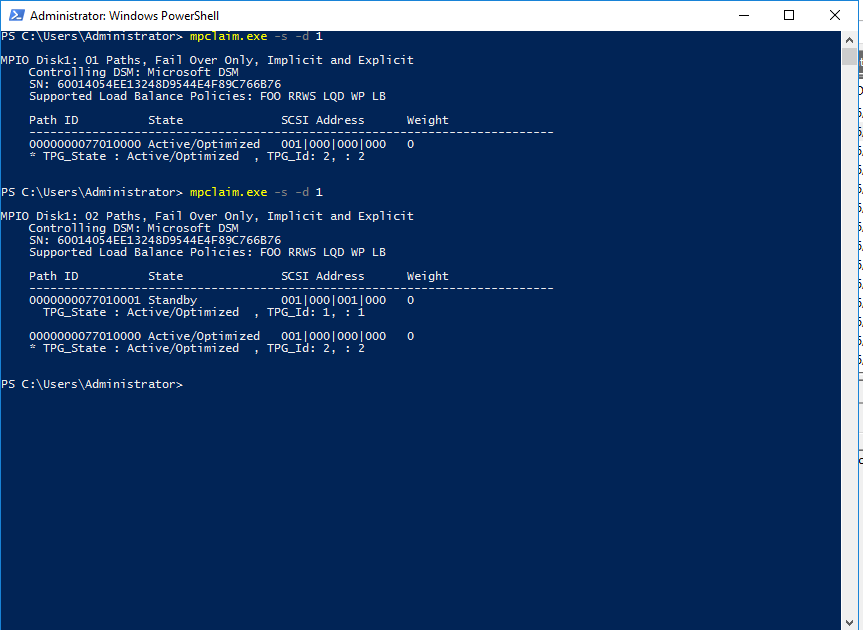
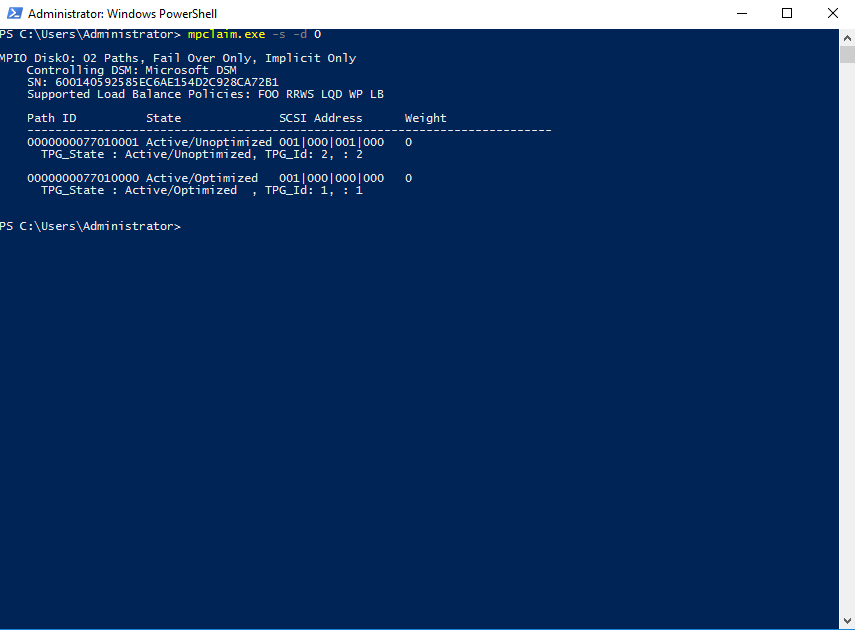
doc: tweaks for the RBD iSCSI configuration documentation

Changed region(s): [[0.0, 0.0, 1.0, 1.0], [0.0, 0.6032, 0.2129, 0.6333], [0.6082, 0.181, 0.6386, 0.2111]]

diff --git a/doc/rbd/iscsi-target-ansible.rst b/doc/rbd/iscsi-target-ansible.rst
@@ -11,23 +11,20 @@ install, and configure the Ceph iSCSI gateway for basic operation.
 
 -  A running Ceph Luminous (12.2.x) cluster or newer
 
--  The ``ceph-iscsi-config`` package installed on all the iSCSI gateway nodes
+-  RHEL/CentOS 7.4; or Linux kernel v4.14 or newer
 
-.. NOTE::
-  The ``device-mapper-multipath-0.4.9-99`` or newer package is only required for
-  older kernel RBD based implementations. This package is not required for newer
-  ``librbd`` based implementations.
+-  The ``ceph-iscsi-config`` package installed on all the iSCSI gateway nodes
 
 **Installing:**
 
 #. On the Ansible installer node, which could be either the administration node
    or a dedicated deployment node, perform the following steps:
 
-   #. As ``root``, install the ``ceph-iscsi-ansible`` package:
+   #. As ``root``, install the ``ceph-ansible`` package:
 
       ::
 
-          # yum install ceph-iscsi-ansible
+          # yum install ceph-ansible
 
    #. Add an entry in ``/etc/ansible/hosts`` file for the gateway group:
 
@@ -37,13 +34,13 @@ install, and configure the Ceph iSCSI gateway for basic operation.
           ceph-igw-1
           ceph-igw-2
 
-.. NOTE::
+.. note::
   If co-locating the iSCSI gateway with an OSD node, then add the OSD node to the
   ``[ceph-iscsi-gw]`` section.
 
 **Configuring:**
 
-The ``ceph-iscsi-ansible`` package places a file in the ``/usr/share/ceph-ansible/group_vars/``
+The ``ceph-ansible`` package places a file in the ``/usr/share/ceph-ansible/group_vars/``
 directory called ``ceph-iscsi-gw.sample``. Create a copy of this sample file named
 ``ceph-iscsi-gw.yml``. Review the following Ansible variables and descriptions,
 and update accordingly.
@@ -134,7 +131,7 @@ and update accordingly.
 |                                      | across client connections.           |
 +--------------------------------------+--------------------------------------+
 
-.. NOTE::
+.. note::
   When using the ``gateway_iqn`` variable, and for Red Hat Enterprise Linux
   clients, installing the ``iscsi-initiator-utils`` package is required for
   retrieving the gateway’s IQN name. The iSCSI initiator name is located in the
@@ -151,7 +148,7 @@ On the Ansible installer node, perform the following steps.
        # cd /usr/share/ceph-ansible
        # ansible-playbook ceph-iscsi-gw.yml
 
-   .. NOTE::
+   .. note::
     The Ansible playbook will handle RPM dependencies, RBD creation
     and Linux IO configuration.
 
@@ -161,12 +158,12 @@ On the Ansible installer node, perform the following steps.
 
        # gwcli ls
 
-   .. NOTE::
+   .. note::
     For more information on using the ``gwcli`` command to install and configure
     a Ceph iSCSI gateaway, see the `Configuring the iSCSI Target using the Command Line Interface`_
     section.
 
-   .. IMPORTANT::
+   .. important::
     Attempting to use the ``targetcli`` tool to change the configuration will
     result in the following issues, such as ALUA misconfiguration and path failover
     problems. There is the potential to corrupt data, to have mismatched
@@ -207,7 +204,7 @@ Within the ``/usr/share/ceph-ansible/group_vars/ceph-iscsi-gw`` file
 there are a number of operational workflows that the Ansible playbook
 supports.
 
-.. WARNING::
+.. warning::
   Before removing RBD images from the iSCSI gateway configuration,
   follow the standard procedures for removing a storage device from
   the operating system.
@@ -271,7 +268,7 @@ change across the iSCSI gateway nodes.
 
 **Removing the Configuration:**
 
-The ``ceph-iscsi-ansible`` package provides an Ansible playbook to
+The ``ceph-ansible`` package provides an Ansible playbook to
 remove the iSCSI gateway configuration and related RBD images. The
 Ansible playbook is ``/usr/share/ceph-ansible/purge_gateways.yml``. When
 this Ansible playbook is ran a prompted for the type of purge to
@@ -290,11 +287,11 @@ When ``all`` is chosen, the LIO configuration is removed together with
 environment, other unrelated RBD images will not be removed. Ensure the
 correct mode is chosen, this operation will delete data.
 
-.. WARNING::
+.. warning::
   A purge operation is destructive action against your iSCSI gateway
   environment.
 
-.. WARNING::
+.. warning::
   A purge operation will fail, if RBD images have snapshots or clones
   and are exported through the Ceph iSCSI gateway.
 

diff --git a/doc/rbd/iscsi-requirements.rst b/doc/rbd/iscsi-requirements.rst
@@ -9,15 +9,20 @@ solution.
 For hardware recommendations, see the `Hardware Recommendation page <http://docs.ceph.com/docs/master/start/hardware-recommendations/>`_
 for more details.
 
-.. WARNING::
+.. note::
     On the iSCSI gateway nodes, the memory footprint of the RBD images
     can grow to a large size. Plan memory requirements accordingly based
-    off the number RBD images mapped. Each RBD image roughly uses 90 MB
-    of RAM.
+    off the number RBD images mapped.
 
 There are no specific iSCSI gateway options for the Ceph Monitors or
-OSDs, but changing the ``osd_client_watch_timeout`` value to ``15`` is
-required for each OSD node in the storage cluster.
+OSDs, but it is important to lower the default timers for detecting
+down OSDs to reduce the possibility of initiator timeouts. The following
+configuration options are suggested for each OSD node in the storage
+cluster::
+
+        [osd]
+        osd heartbeat grace = 20
+        osd heartbeat interval = 5
 
 -  Online Updating Using the Ceph Monitor
 
@@ -27,7 +32,8 @@ required for each OSD node in the storage cluster.
 
    ::
 
-       # ceph tell osd.0 injectargs '--osd_client_watch_timeout 15'
+       ceph tell osd.0 injectargs '--osd_heartbeat_grace 20'
+       ceph tell osd.0 injectargs '--osd_heartbeat_interval 5'
 
 -  Online Updating on the OSD Node
 
@@ -37,17 +43,7 @@ required for each OSD node in the storage cluster.
 
    ::
 
-       # ceph daemon osd.0 config set osd_client_watch_timeout 15
-
-   .. NOTE::
-    Update the Ceph configuration file and copy it to all nodes in the
-    Ceph storage cluster. For example, the default configuration file is
-    ``/etc/ceph/ceph.conf``. Add the following lines to the Ceph
-    configuration file:
-
-   ::
-
-        [osd]
-        osd_client_watch_timeout = 15
+       ceph daemon osd.0 config set osd_heartbeat_grace 20
+       ceph daemon osd.0 config set osd_heartbeat_interval 5
 
 For more details on setting Ceph's configuration options, see the `Configuration page <http://docs.ceph.com/docs/master/rados/configuration/>`_.

diff --git a/doc/rbd/iscsi-initiator-win.rst b/doc/rbd/iscsi-initiator-win.rst
@@ -34,7 +34,7 @@ Configuring the MPIO load balancing policy, setting the timeout and
 retry options are using PowerShell with the ``mpclaim`` command. The
 reset is done in the MPIO tool.
 
-.. NOTE::
+.. note::
   It is recommended to increase the ``PDORemovePeriod`` option to 120
   seconds from PowerShell. This value might need to be adjusted based
   on the application. When all paths are down, and 120 seconds
@@ -54,13 +54,13 @@ reset is done in the MPIO tool.
     MSDSM-wide Load Balance Policy: Fail Over Only
 
 #. Using the MPIO tool, from the “Targets” tab, click on the
-   “Devices…” button:
+   “Devices...” button.
 
 #. From the Devices window, select a disk and click the
-   “MPIO…” button:
+   “MPIO...” button.
 
 #. On the "Device Details" window the paths to each target portal is
-   displayed. If using the ``ceph-iscsi-ansible`` setup method, the
+   displayed. If using the ``ceph-ansible`` setup method, the
    iSCSI gateway will use ALUA to tell the iSCSI initiator which path
    and iSCSI gateway should be used as the primary path. The Load
    Balancing Policy “Fail Over Only” must be selected
@@ -69,8 +69,8 @@ reset is done in the MPIO tool.
 
     mpclaim -s -d $MPIO_DISK_ID
 
-.. NOTE::
-  For the ``ceph-iscsi-ansible`` setup method, there will be one
+.. note::
+  For the ``ceph-ansible`` setup method, there will be one
   Active/Optimized path which is the path to the iSCSI gateway node
   that owns the LUN, and there will be an Active/Unoptimized path for
   each other iSCSI gateway node.
@@ -87,7 +87,7 @@ Consider using the following registry settings:
 
    ::
 
-       DiskTimeout = 25
+       TimeOutValue = 65
 
 -  Microsoft iSCSI Initiator Driver
 
@@ -96,5 +96,5 @@ Consider using the following registry settings:
        HKEY_LOCAL_MACHINE\\SYSTEM\CurrentControlSet\Control\Class\{4D36E97B-E325-11CE-BFC1-08002BE10318}\<Instance_Number>\Parameters
 
    ::
-
-       SRBTimeoutDelta = 5
+       LinkDownTime = 25
+       SRBTimeoutDelta = 15

diff --git a/doc/rbd/iscsi-target-cli.rst b/doc/rbd/iscsi-target-cli.rst
@@ -11,7 +11,7 @@ install, and configure the Ceph iSCSI gateway for basic operation.
 
 -  A running Ceph Luminous or later storage cluster
 
--  CentOS 7.4, Linux kernel v4.12 or newer
+-  RHEL/CentOS 7.4; or Linux kernel v4.14 or newer
 
 -  The following packages must be installed from your Linux distribution's software repository:
 
@@ -19,9 +19,13 @@ install, and configure the Ceph iSCSI gateway for basic operation.
 
    -  ``python-rtslib-2.1.fb64`` or newer package
 
-   -  ``tcmu-runner-1.2.1`` or newer package
+   -  ``tcmu-runner-1.3.0`` or newer package
 
-     .. IMPORTANT::
+   -  ``ceph-iscsi-config-2.3`` or newer package
+
+   -  ``ceph-iscsi-cli-2.5`` or newer package
+
+     .. important::
         If previous versions of these packages exist, then they must
         be removed first before installing the newer versions.
 
@@ -69,13 +73,6 @@ to the *Installing* section:
       ::
 
           [config]
-          cluster_name = <ceph_cluster_name>
-          gateway_keyring = <ceph_client_keyring>
-          api_secure = false
-
-      ::
-
-          [config]
           # Name of the Ceph storage cluster. A suitable Ceph configuration file allowing
           # access to the Ceph storage cluster from the gateway node is required, if not
           # colocated on an OSD node.
@@ -104,7 +101,7 @@ to the *Installing* section:
           # api_port = 5001
           # trusted_ip_list = 192.168.0.10,192.168.0.11
 
-      .. IMPORTANT::
+      .. important::
         The ``iscsi-gateway.cfg`` file must be identical on all iSCSI gateway nodes.
 
    #. As ``root``, copy the ``iscsi-gateway.cfg`` file to all iSCSI
@@ -152,7 +149,7 @@ to the *Installing* section:
        > auth chap=<user_name>/<password> | nochap
 
 
-  .. WARNING::
+  .. warning::
       CHAP must always be configured. Without CHAP, the target will
       reject any login requests.
 

diff --git a/doc/rbd/iscsi-initiator-esx.rst b/doc/rbd/iscsi-initiator-esx.rst
@@ -11,6 +11,9 @@ The iSCSI Initiator for VMware ESX
 #. From vSphere, open the Storage Adapters, on the Configuration tab. Right click
    on the iSCSI Software Adapter and select Properties.
 
+#. In the General tab click the "Advanced" button and in the "Advanced Settings"
+   set RecoveryTimeout to 25.
+
 #. If CHAP was setup on the iSCSI gateway, in the General tab click the "CHAP…"
    button. If CHAP is not being used, skip to step 4.
 
@@ -25,9 +28,9 @@ The iSCSI Initiator for VMware ESX
    iSCSI software adapter. Select Yes.
 
 #. In the Details pane, the LUN on the iSCSI target will be displayed. Right click
-   on a device and select "Manage Paths":
+   on a device and select "Manage Paths".
 
 #. On the Manage Paths window, select “Most Recently Used (VMware)” for the policy
-   path selection. Close and repeat for the other disks:
+   path selection. Close and repeat for the other disks.
 
 Now the disks can be used for datastores.

diff --git a/doc/rbd/iscsi-overview.rst b/doc/rbd/iscsi-overview.rst
@@ -9,10 +9,11 @@ to SCSI storage devices (targets) over a TCP/IP network. This allows for heterog
 clients, such as Microsoft Windows, to access the Ceph Storage cluster.
 
 Each iSCSI gateway runs the Linux IO target kernel subsystem (LIO) to provide the
-iSCSI protocol support and utilizes the Ceph’s RBD kernel module to expose RBD
-images to iSCSI clients. With Ceph’s iSCSI gateway you can effectively run a fully
-integrated block-storage infrastructure with all the features and benefits of a
-conventional Storage Area Network (SAN).
+iSCSI protocol support. LIO utilizes a userspace passthrough (TCMU) to interact
+with Ceph's librbd library and expose RBD images to iSCSI clients. With Ceph’s
+iSCSI gateway you can effectively run a fully integrated block-storage
+infrastructure with all the features and benefits of a conventional Storage Area
+Network (SAN).
 
 .. ditaa::
                   Cluster Network

diff --git a/doc/rbd/iscsi-initiator-rhel.rst b/doc/rbd/iscsi-initiator-rhel.rst
@@ -42,7 +42,8 @@ Install the iSCSI initiator and multipath tools:
                        path_checker           tur
                        prio                   alua
                        prio_args              exclusive_pref_bit
-                       no_path_retry          120
+                       fast_oi_fail_tmo       25
+                       no_path_retry          queue
                }
        }
 

diff --git a/doc/rbd/iscsi-targets.rst b/doc/rbd/iscsi-targets.rst
@@ -8,7 +8,7 @@ within OpenStack environments. Starting with the Ceph Luminous release,
 block-level access is expanding to offer standard iSCSI support allowing
 wider platform usage, and potentially opening new use cases.
 
--  CentOS 7.4 or newer
+-  RHEL/CentOS 7.4; or Linux kernel v4.14 or newer
 
 -  A working Ceph Storage cluster, deployed with ``ceph-ansible`` or using the command-line interface
 
